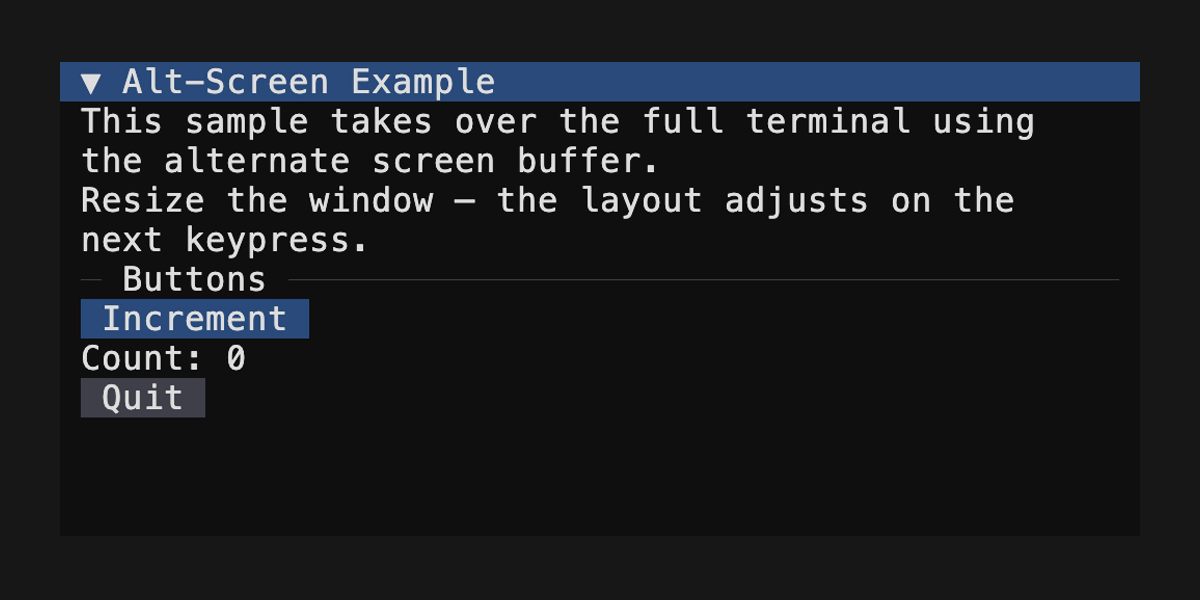
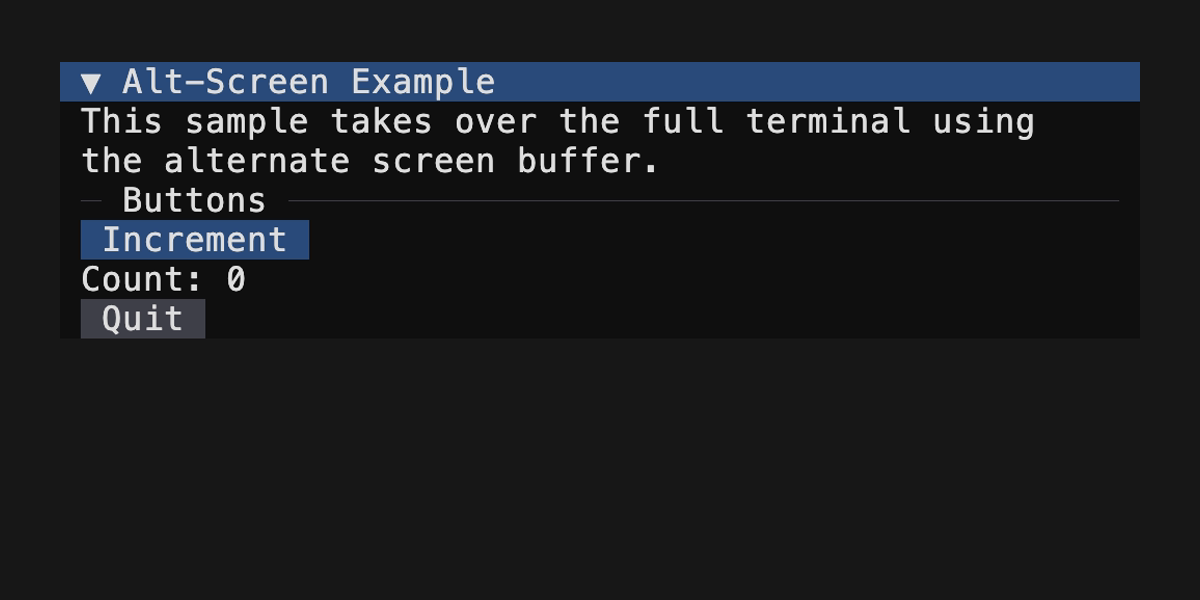
Add QuitAfterThisFrame() to context

Changed region(s): [[0.0617, 0.3, 0.8633, 0.72]]

diff --git a/src/Imtui/ImtuiApplication.cs b/src/Imtui/ImtuiApplication.cs
@@ -13,12 +13,14 @@ public static class ImtuiApplication
     // Runs an Imtui application that takes over the full terminal. When
     // altScreen is true (default), the alternate screen buffer is used so the
     // application's output doesn't disturb existing scrollback. The frame
-    // callback is invoked once per frame to build the UI; return false to
-    // exit the loop. When highlightRedraws is true, every cell that changes
-    // between consecutive frames is rendered with a dark-red background as a
-    // debug visualization of what the renderer touched on each frame.
+    // callback is invoked once per frame to build the UI; call
+    // ImtuiContext.QuitAfterThisFrame to exit the loop after the current
+    // frame finishes rendering. When highlightRedraws is true, every cell
+    // that changes between consecutive frames is rendered with a dark-red
+    // background as a debug visualization of what the renderer touched on
+    // each frame.
     public static void Run(
-        Func<ImtuiContext, bool> frame,
+        Action<ImtuiContext> frame,
         bool altScreen = false,
         bool highlightRedraws = false
     ) => RunAsync(frame, altScreen, highlightRedraws).GetAwaiter().GetResult();
@@ -29,7 +31,7 @@ public static class ImtuiApplication
     // Multiple wake-ups in the same instant collapse into a single frame
     // via a drain step after each await.
     public static async Task RunAsync(
-        Func<ImtuiContext, bool> frame,
+        Action<ImtuiContext> frame,
         bool altScreen = false,
         bool highlightRedraws = false
     )
@@ -84,11 +86,8 @@ public static class ImtuiApplication
                 // Grow child fills the terminal regardless of whether we're in
                 // altscreen mode.
                 imtui.BeginLayout(terminalDimensions, frameInput);
-                bool keepRunning = frame(imtui);
+                frame(imtui);
                 LayoutNode root = imtui.EndLayout();
-
-                if (!keepRunning)
-                    break;
 
                 // In altscreen mode we own the whole terminal, so the canvas
                 // always matches the terminal. In inline mode the canvas is
@@ -137,6 +136,9 @@ public static class ImtuiApplication
 
                 canvas.Present(output, altScreen: altScreen);
                 imtui.EndFrame();
+
+                if (imtui.QuitRequested)
+                    break;
 
                 await WaitForNextFrameAsync(
                     wakeChannel.Reader,

diff --git a/src/Imtui/ImtuiContext.cs b/src/Imtui/ImtuiContext.cs
@@ -22,6 +22,7 @@ public sealed class ImtuiContext
     private TimeSpan? _nextRedrawDelay;
     private long _frameStartTimestamp;
     private TimeSpan _lastFrameTime;
+    private bool _quitRequested;
 
     // Total number of frames begun on this context. Incremented at the start
     // of every call to BeginLayout.
@@ -99,6 +100,21 @@ public sealed class ImtuiContext
     // has been completed with a call to EndFrame.
     public TimeSpan LastFrameTime => _lastFrameTime;
 
+    // Whether the application has requested to quit after the current frame.
+    // The run loop reads this after the frame callback returns and exits the
+    // loop if true. Reset at the start of every BeginLayout.
+    internal bool QuitRequested => _quitRequested;
+
+    // Request that the run loop exit after the current frame finishes
+    // rendering. The frame in progress completes normally — including
+    // layout, render, and present — so the user sees the final state of the
+    // UI before the application returns. Has no effect when called outside
+    // of a frame.
+    public void QuitAfterThisFrame()
+    {
+        _quitRequested = true;
+    }
+
     public void BeginLayout(Dimensions dimensions, FrameInput input = default)
     {
         _frameStartTimestamp = Stopwatch.GetTimestamp();
@@ -106,6 +122,7 @@ public sealed class ImtuiContext
         _dimensions = dimensions;
         _time = input.Time;
         _nextRedrawDelay = null;
+        _quitRequested = false;
         _root = new LayoutNode { Dimensions = dimensions, Position = new Position(0, 0) };
         _layoutStack.Clear();
         _layoutStack.Push(_root);

diff --git a/samples/07_Spinner.cs b/samples/07_Spinner.cs
@@ -9,11 +9,11 @@ using Imtui.Widgets;
 
 ImtuiApplication.Run(imtui =>
 {
-    bool keepRunning = true;
     using (imtui.Panel("Spinner Example"))
     {
         imtui.Text("Multiple spinners animate in lockstep because they share a frame duration.");
         imtui.Text("The run loop wakes once per glyph boundary, not once per spinner.");
+
         #region Example
         imtui.HRule("Default (80ms)");
         using (imtui.HStack(gap: 1))
@@ -23,6 +23,7 @@ ImtuiApplication.Run(imtui =>
             imtui.Spinner();
             imtui.Text("loading...");
         }
+
         imtui.HRule("Slower (250ms)");
         using (imtui.HStack(gap: 1))
         {
@@ -33,7 +34,6 @@ ImtuiApplication.Run(imtui =>
         imtui.HRule();
         imtui.DebugText();
         if (imtui.Button("Quit"))
-            keepRunning = false;
+            imtui.QuitAfterThisFrame();
     }
-    return keepRunning;
 });

diff --git a/samples/08_Loading.cs b/samples/08_Loading.cs
@@ -13,7 +13,6 @@ CancellationTokenSource? cts = null;
 ImtuiApplication.Run(
     imtui =>
     {
-        bool keepRunning = true;
         using (imtui.BorderPanel("Loading Example"))
         {
             imtui.Text("A simulated network fetch wakes the run loop on completion.");
@@ -49,6 +48,7 @@ ImtuiApplication.Run(
             {
                 imtui.Text("Press the button to load.");
             }
+
             imtui.HRule();
             if (imtui.Button(buttonLabel))
             {
@@ -72,13 +72,10 @@ ImtuiApplication.Run(
             }
 
             if (imtui.Button("Quit"))
-            {
-                keepRunning = false;
-            }
+                imtui.QuitAfterThisFrame();
 
             imtui.Text($"Frame Count: {imtui.FrameCount}");
         }
-        return keepRunning;
     }
 );
 #endregion Example

diff --git a/samples/05_AltScreen.cs b/samples/05_AltScreen.cs
@@ -11,18 +11,18 @@ using Imtui.Widgets;
 int counter = 0;
 ImtuiApplication.Run(imtui =>
 {
-    bool keepRunning = true;
-    using (imtui.Panel("Alt-Screen Example", style: new LayoutStyle { Width = LayoutLength.Grow(), Height = LayoutLength.Grow() }))
+    using (imtui.Panel("Alt-Screen Example"))
     {
         imtui.Text("This sample takes over the full terminal using the alternate screen buffer.");
-        imtui.Text("Resize the window — the layout adjusts on the next keypress.");
+
         imtui.HRule("Buttons");
         if (imtui.Button("Increment"))
             counter += 1;
+
         imtui.Text($"Count: {counter}");
+
         if (imtui.Button("Quit"))
-            keepRunning = false;
+            imtui.QuitAfterThisFrame();
     }
-    return keepRunning;
 }, altScreen: true);
 #endregion Example

diff --git a/samples/06_DebugText.cs b/samples/06_DebugText.cs
@@ -9,8 +9,6 @@ using Imtui.Widgets;
 
 ImtuiApplication.Run(imtui =>
 {
-    bool keepRunning = true;
-
     #region Example
     using (imtui.BorderPanel("DebugText Example"))
     {
@@ -18,9 +16,7 @@ ImtuiApplication.Run(imtui =>
         imtui.HRule("imtui.DebugText()");
         imtui.DebugText();
         if (imtui.Button("Quit"))
-            keepRunning = false;
+            imtui.QuitAfterThisFrame();
     }
     #endregion
-
-    return keepRunning;
 });

diff --git a/samples/README.md b/samples/README.md
@@ -9,19 +9,19 @@
 int counter = 0;
 ImtuiApplication.Run(imtui =>
 {
-    bool keepRunning = true;
-    using (imtui.Panel("Alt-Screen Example", style: new LayoutStyle { Width = LayoutLength.Grow(), Height = LayoutLength.Grow() }))
+    using (imtui.Panel("Alt-Screen Example"))
     {
         imtui.Text("This sample takes over the full terminal using the alternate screen buffer.");
-        imtui.Text("Resize the window — the layout adjusts on the next keypress.");
+
         imtui.HRule("Buttons");
         if (imtui.Button("Increment"))
             counter += 1;
+
         imtui.Text($"Count: {counter}");
+
         if (imtui.Button("Quit"))
-            keepRunning = false;
+            imtui.QuitAfterThisFrame();
     }
-    return keepRunning;
 }, altScreen: true);
 ```
 
@@ -30,13 +30,13 @@ ImtuiApplication.Run(imtui =>
 ## Debug Text
 
 ```csharp
-using (imtui.Panel("DebugText Example"))
+using (imtui.BorderPanel("DebugText Example"))
 {
     imtui.Text("Press any key to advance a frame.");
     imtui.HRule("imtui.DebugText()");
     imtui.DebugText();
     if (imtui.Button("Quit"))
-        keepRunning = false;
+        imtui.QuitAfterThisFrame();
 }
 ```
 
@@ -53,6 +53,7 @@ using (imtui.HStack(gap: 1))
     imtui.Spinner();
     imtui.Text("loading...");
 }
+
 imtui.HRule("Slower (250ms)");
 using (imtui.HStack(gap: 1))
 {
@@ -68,71 +69,74 @@ using (imtui.HStack(gap: 1))
 ```csharp
 Task<string>? fetch = null;
 CancellationTokenSource? cts = null;
-ImtuiApplication.Run(imtui =>
-{
-    bool keepRunning = true;
-    using (imtui.BorderPanel("Loading Example"))
+ImtuiApplication.Run(
+    imtui =>
     {
-        imtui.Text("A simulated network fetch wakes the run loop on completion.");
-        imtui.HRule();
-
-        string buttonLabel = "Fetch";
-        if (fetch is not null)
+        using (imtui.BorderPanel("Loading Example"))
         {
-            if (fetch.IsCompletedSuccessfully)
+            imtui.Text("A simulated network fetch wakes the run loop on completion.");
+            imtui.HRule();
+
+            string buttonLabel = "Fetch";
+            if (fetch is not null)
             {
-                imtui.Text($"Result: {fetch.Result}");
-                buttonLabel = "Refetch";
-            }
-            else if (fetch.IsFaulted)
-            {
-                imtui.Text($"Failed: {fetch.Exception?.InnerException?.Message ?? "unknown error"}");
-                buttonLabel = "Try again";
-            }
-            else if (fetch.IsCanceled)
-            {
-                imtui.Text("Canceled");
-                buttonLabel = "Try again";
+                if (fetch.IsCompletedSuccessfully)
+                {
+                    imtui.Text($"Result: {fetch.Result}");
+                    buttonLabel = "Refetch";
+                }
+                else if (fetch.IsFaulted)
+                {
+                    imtui.Text(
+                        $"Failed: {fetch.Exception?.InnerException?.Message ?? "unknown error"}"
+                    );
+                    buttonLabel = "Try again";
+                }
+                else if (fetch.IsCanceled)
+                {
+                    imtui.Text("Canceled");
+                    buttonLabel = "Try again";
+                }
+                else
+                {
+                    imtui.Spinner();
+                    buttonLabel = "Cancel";
+                }
             }
             else
             {
-                imtui.Spinner();
-                buttonLabel = "Cancel";
+                imtui.Text("Press the button to load.");
             }
-        }
-        else
-        {
-            imtui.Text("Press the button to load.");
-        }
-        imtui.HRule();
-        if (imtui.Button(buttonLabel))
-        {
-            if (fetch?.IsCompleted ?? true)
+
+            imtui.HRule();
+            if (imtui.Button(buttonLabel))
             {
-                cts = new CancellationTokenSource();
-                fetch = FetchAsync(cts.Token);
-            }
-            else
-            {
-                cts?.Cancel();
-                cts?.Dispose();
+                if (fetch?.IsCompleted ?? true)
+                {
+                    cts = new CancellationTokenSource();
+                    fetch = FetchAsync(cts.Token);
+                }
+                else
+                {
+                    cts?.Cancel();
+                    cts?.Dispose();
+                }
+
+                // Re-draw as soon as the fetch completes so the UI will be updated
+                // with the result.
+                imtui.WakeOn(fetch);
+                // Re-draw immediately since the button is below the spinner, but
+                // we want the spinner to show up right away.
+                imtui.RequestRedrawIn(TimeSpan.Zero);
             }
 
-            // Re-draw as soon as the fetch completes so the UI will be updated
-            // with the result.
-            imtui.WakeOn(fetch);
-            // Re-draw immediately since the button is below the spinner, but
-            // we want the spinner to show up right away.
-            imtui.RequestRedrawIn(TimeSpan.Zero);
+            if (imtui.Button("Quit"))
+                imtui.QuitAfterThisFrame();
+
+            imtui.Text($"Frame Count: {imtui.FrameCount}");
         }
-
-        if (imtui.Button("Quit"))
-            keepRunning = false;
-
-        imtui.Text($"Frame Count: {imtui.FrameCount}");
     }
-    return keepRunning;
-});
+);
 ```
 
 ![08_Loading.gif](08_Loading.gif)
